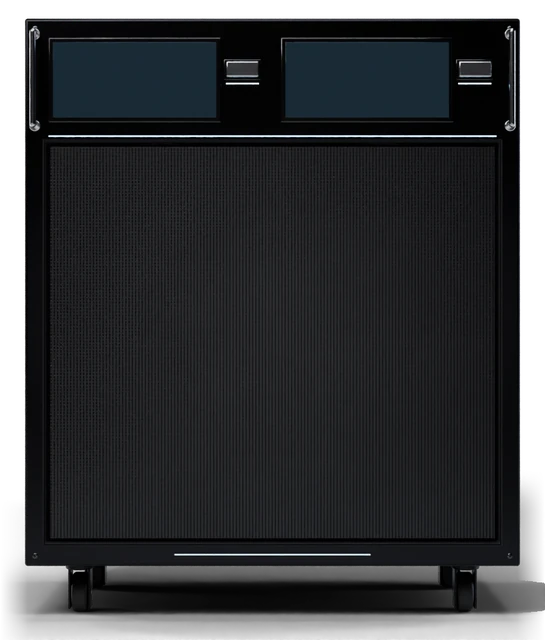
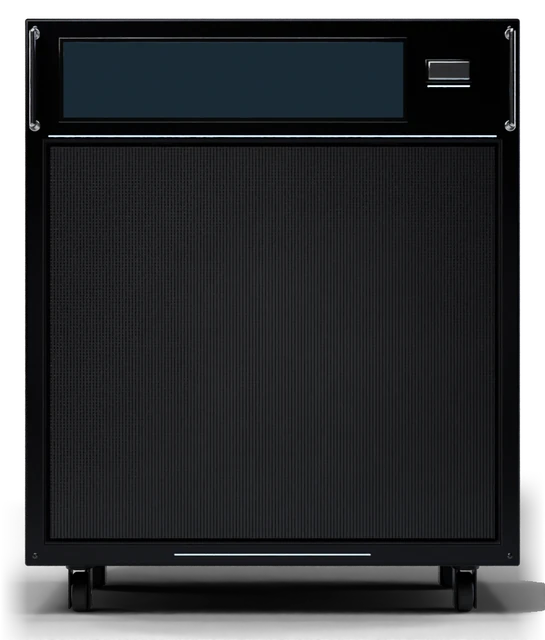
Cabs: Proteus IR loader has one IR slot
One screen and one LOAD button: the IR you load plays on both mics.
Re-rendered the front view with the single screen; the bridge, UI test
and self-test now check the one-slot loader.

Claude-Session: https://claude.ai/code/session_01VkZHgv8yq7ZigCq6c5oibS

Changed region(s): [[0.3743, 0.0312, 0.5303, 0.1875], [0.7174, 0.0625, 0.9046, 0.1875], [0.0936, 0.0625, 0.1248, 0.1875]]

diff --git a/plugin/WebUI/obsidian-bridge.js b/plugin/WebUI/obsidian-bridge.js
@@ -1794,13 +1794,12 @@ function renderCab() {
     const pct = (r, i) => (100 * r[i] / (i % 2 ? e.imgH : e.imgW)).toFixed(2) + '%';
     const box = (r, cls, inner, attr) => r && e.imgW ? '<span class="' + cls + '"' + (attr || '') + ' style="left:' + pct(r, 0) + ';top:' + pct(r, 1) + ';width:' + (100 * (r[2] - r[0]) / e.imgW).toFixed(2) + '%;height:' + (100 * (r[3] - r[1]) / e.imgH).toFixed(2) + '%">' + inner + '</span>' : '';
     const scr = voice ? '<b>' + esc(voice.album || voice.name || '') + '</b>' + (voice.song ? '<i>' + esc(voice.song) + '</i>' : '') : '<b>' + esc(e.name || '') + '</b>';
-    // the IR loader (Proteus): a screen per mic with its IR's name, a LOAD button beside each
-    const loader = !!e.loader, irn = [c.irAName || '', c.irBName || ''];
-    const lscr = i => '<i>MIC ' + 'AB'[i] + '</i><b>' + esc(irn[i] || 'NO IR') + '</b>' + (irn[i] ? '' : '<i>PRESS LOAD</i>');
-    const screens = loader ? box(e.screenA, 'obs-cabscreen ld', lscr(0)) + box(e.screenB, 'obs-cabscreen ld', lscr(1))
-        + box(e.buttonA, 'obs-cabhot obs-cabload', '', ' data-load="0" title="Load an IR for mic A"') + box(e.buttonB, 'obs-cabhot obs-cabload', '', ' data-load="1" title="Load an IR for mic B"')
+    // the IR loader (Proteus): one IR slot. Its screen shows your IR (it plays on both mics), LOAD beside it
+    const loader = !!e.loader, irn = [c.irAName || '', c.irBName || ''], own = irn[0] || irn[1];
+    const lscr = '<i>YOUR IR</i><b>' + esc(own || 'NO IR') + '</b>' + (!own ? '<i>PRESS LOAD</i>' : irn[0] && irn[1] && irn[0] !== irn[1] ? '<i>+ ' + esc(irn[1]) + '</i>' : '');
+    const screens = loader ? box(e.screen, 'obs-cabscreen ld', lscr) + box(e.button, 'obs-cabhot obs-cabload', '', ' data-load="2" title="Load your IR"')
       : box(e.screen, 'obs-cabscreen', scr) + (vs.length > 1 ? box(e.button, 'obs-cabhot', '') : '');
-    const sub = loader ? 'IR loader · ' + (irn.some(Boolean) ? [...new Set(irn.filter(Boolean))].join(' + ') : 'press LOAD to bring in your own IRs')
+    const sub = loader ? 'IR loader · ' + (own ? [...new Set(irn.filter(Boolean))].join(' + ') : 'press LOAD to bring in your own IR')
       : voice ? cabVoiceName(voice) : e.basedOn ? 'Based on ' + e.basedOn : 'Click to change';
     const sig = e.key + '|' + cur + (loader ? '|' + irn.join('|') : '');
     if (ampUi.cabBig._sig !== sig) {

diff --git a/plugin/WebUI/obsidian-native.css b/plugin/WebUI/obsidian-native.css
@@ -335,7 +335,7 @@ button.obs-cabbig:hover .obs-cabpic { transform: translateY(-2px); }
 .obs-cabchip.on { color: rgb(var(--cf_e9e6df)); border-color: var(--accent); box-shadow: 0 0 0 1px var(--accent) inset; }
 .obs-cabrow.songs .obs-cabchip { font-size: 8.5px; padding: 3px 7px; }
 
-/* the IR loader cab (Proteus): a screen per mic and a LOAD button beside each */
+/* the IR loader cab (Proteus): one screen with your IR, a LOAD button beside it */
 .obs-cabscreen.ld { justify-content: center; gap: 1px; }
 .obs-cabscreen.ld i { font-size: 7px; letter-spacing: .2em; opacity: .75; }
 .obs-cabscreen.ld b { max-width: 100%; overflow: hidden; text-overflow: ellipsis; }

diff --git a/plugin/tools/ui-test/run.py b/plugin/tools/ui-test/run.py
@@ -1039,13 +1039,13 @@ async def run(standalone):
                 asked = await pg.evaluate("window.__mock.log.filter(x=>x[0]==='loadIr').map(x=>x[1])")
                 scr = await pg.evaluate("[...document.querySelectorAll('.obs-cabscreen.ld')].map(s=>s.textContent)")
                 name = await pg.evaluate("(document.querySelector('.obs-cabname')||{}).textContent")
-                check(first.startswith('custom') and 'Proteus' in first and asked == [2] and name == 'Proteus 4x12' and scr == ['MIC ATest IR AB', 'MIC BTest IR AB'],
-                      f'the IR loader cab is first in CHOOSE CAB, asks for an IR, and shows it on both mic screens ({first[:40]}; {asked}; {name}; {scr})')
-                await pg.locator('.obs-cabload[data-load="1"]').click(); await pg.wait_for_timeout(400)
+                check(first.startswith('custom') and 'Proteus' in first and asked == [2] and name == 'Proteus 4x12' and scr == ['YOUR IRTest IR AB'],
+                      f'the IR loader cab is first in CHOOSE CAB, asks for an IR, and shows it on its one screen ({first[:40]}; {asked}; {name}; {scr})')
+                await pg.locator('.obs-cabload').click(); await pg.wait_for_timeout(400)
                 asked = await pg.evaluate("window.__mock.log.filter(x=>x[0]==='loadIr').map(x=>x[1])")
-                scr = await pg.evaluate("[...document.querySelectorAll('.obs-cabscreen.ld b')].map(s=>s.textContent)")
+                n = await pg.evaluate("document.querySelectorAll('.obs-cabload').length")
                 fits = await pg.evaluate("[...document.querySelectorAll('.obs-cabscreen.ld b')].every(b=>b.scrollWidth<=b.parentElement.clientWidth)")
-                check(asked == [2, 1] and scr == ['Test IR AB', 'Test IR B'] and fits, f"the LOAD button drawn beside mic B's screen loads mic B only ({asked}; {scr}; fits {fits})")
+                check(asked == [2, 2] and n == 1 and fits, f"its one LOAD button loads your IR onto both mics ({asked}; {n} button; fits {fits})")
                 await pg.screenshot(path=str(OUT / 'cab-proteus.png'))
                 await pick_cab('builtin-4x12')
 

diff --git a/plugin/Source/Tests/SelfTest.cpp b/plugin/Source/Tests/SelfTest.cpp
@@ -1774,12 +1774,12 @@ OBS_NOINLINE static int runSelfTestBody (Report& r, const juce::StringArray& arg
         if (! loader.isVoid() && ownIr.existsAsFile())
         {
             p.rig().setCab ("builtin-4x12");
-            p.rig().loadIr (1, ownIr);
+            p.rig().loadIr (2, ownIr);       // the loader has one IR slot: your IR plays on both mics
             const auto loaded = p.rig().toJson()["cab"];
             p.rig().setCab ("custom");
             const auto kept = p.rig().toJson()["cab"];
             r.check ((bool) loader["loader"] && loaded["key"].toString() == "custom" && kept["key"].toString() == "custom"
-                     && juce::File (kept["irB"].toString()) == ownIr,
+                     && juce::File (kept["irA"].toString()) == ownIr && juce::File (kept["irB"].toString()) == ownIr,
                      "your own IR shows the IR loader cab (" + loader["name"].toString() + "), and choosing it keeps the IR you loaded");
             p.rig().setCab ("builtin-4x12");
         }

diff --git a/plugin/tools/faces/build_cabs.py b/plugin/tools/faces/build_cabs.py
@@ -8,7 +8,7 @@ scales them to plugin/Content/Faces/img/cabs/<key>.webp and writes the picture f
   imgW, imgH     its size in pixels
   screen, button where the cab's display and voice button are, in those pixels (from visuals/out/front/<key>_map.json):
                  the CAB page writes the voice name on the display, and the drawn button steps through the voices.
-  screenA/B, buttonA/B   the IR loader cab (Proteus): one screen per mic showing its IR, and a LOAD button beside each.
+  (the IR loader cab, Proteus, uses screen + button too: its screen shows your IR, the button loads it.)
 
 The mic layout is written for every cab with a spec in visuals/cabs (it needs no render, only the spec, read-only):
   speakers       [[cx, cy, rx, ry], ...]  every speaker's centre and radius in picture pixels, in reading order
